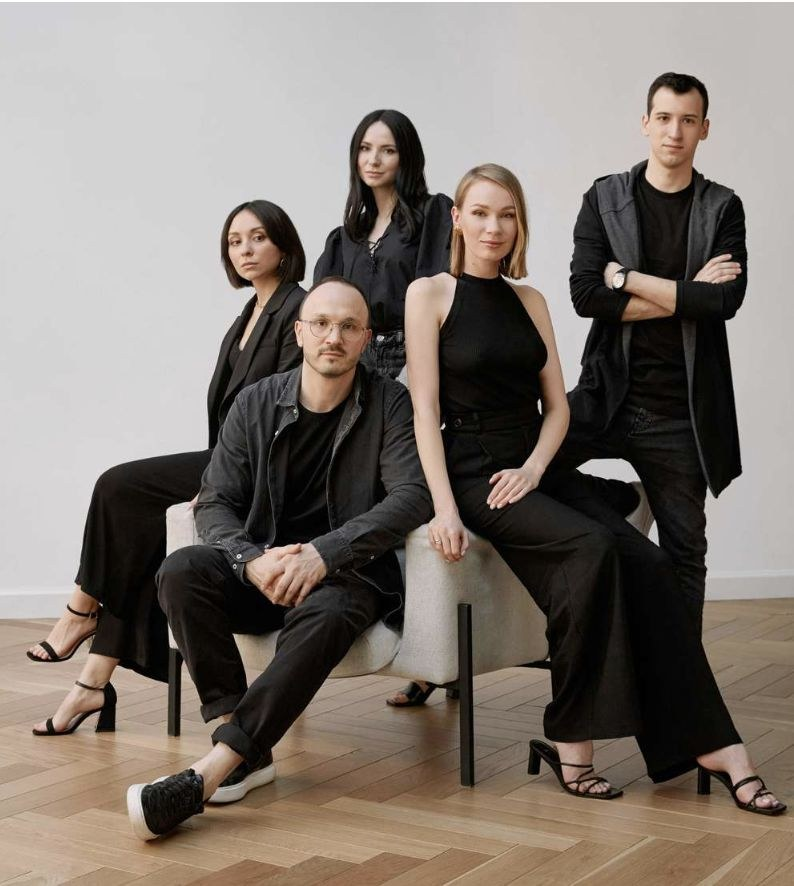
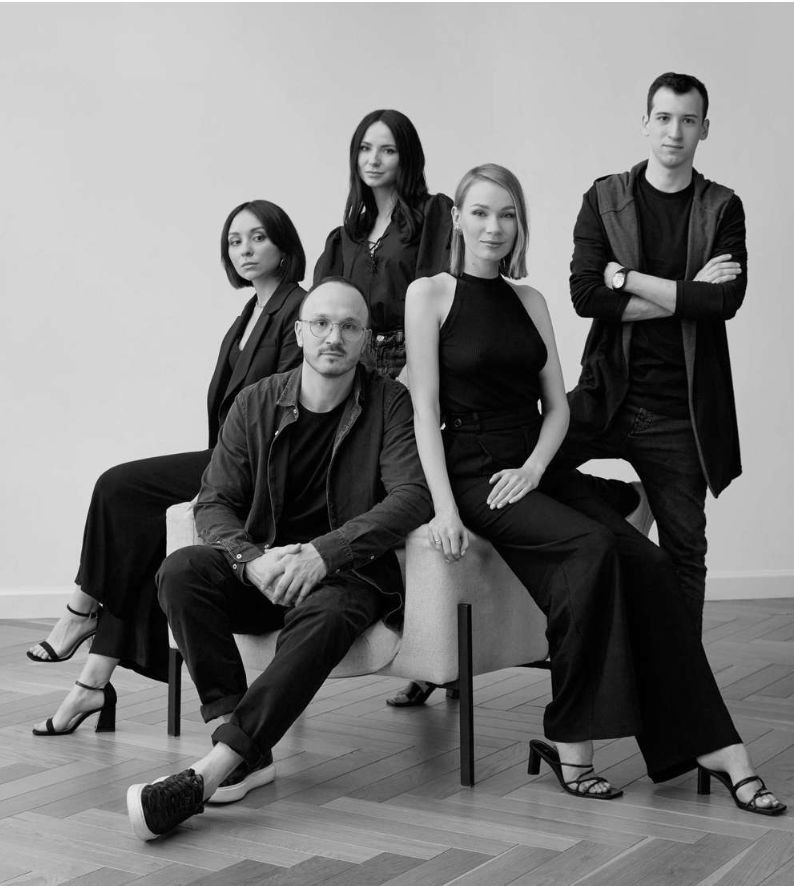
feat: update image quality settings for better grayscale rendering and add new industry images

diff --git a/src/components/sections/IndustryGuideHero.tsx b/src/components/sections/IndustryGuideHero.tsx
@@ -24,6 +24,9 @@ export function IndustryGuideHero() {
         fill
         priority
         sizes="100vw"
+        // The photo is a near-flat dark grayscale sky; at the optimiser's
+        // default quality of 75 the gradient bands into visible contours.
+        quality={92}
         className="object-cover object-center"
       />
 
